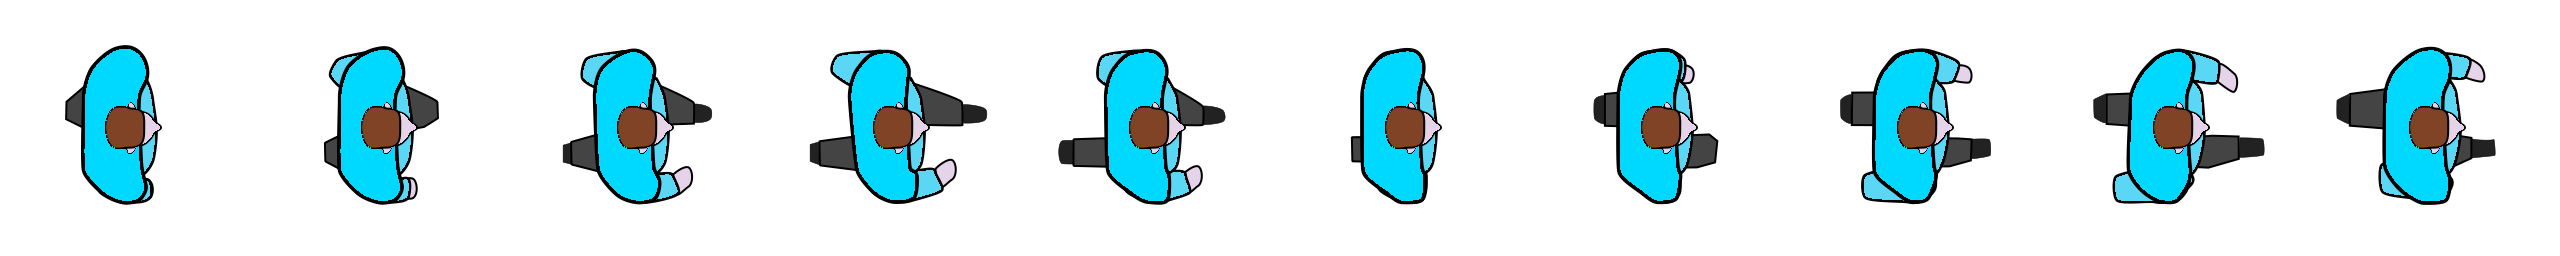
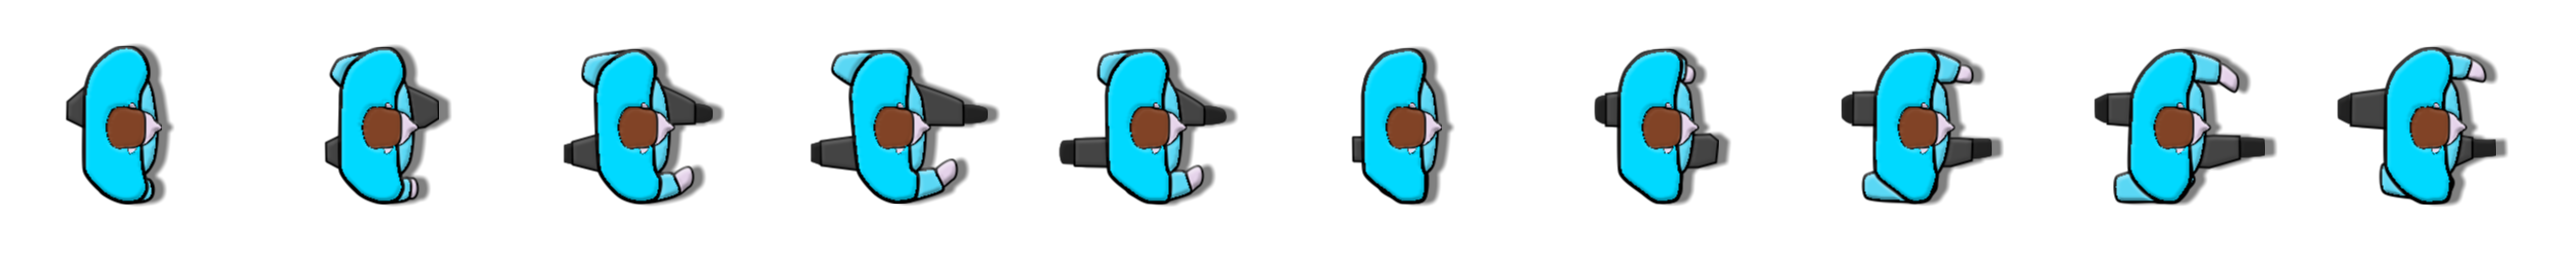
feat: fake details via bevel layer

diff --git a/docs/TODO.md b/docs/TODO.md
@@ -15,12 +15,13 @@
     - need `Canvas > Properties > Image Area` i.e. view-box
       > original magnitude was `3.245189`
   - ✅ output npc/first-anim.json
-  - 🚧 `npc-json` -> `render-npc` and renders PNGs using `synfig` CLI
+  - ✅ `npc-json` -> `render-npc` and renders PNGs using `synfig` CLI
   - 🚧 add `first-anim` to service/npc-json (incremental)
     - `synfig first-anim.sifz -t png-spritesheet -w 256 -h 256 -q 1 -a 3 --begin-time 0f --end-time 2f -o first-anim--walk.png`
   - replace old anim approach
 
 - initial flicker in World due to .lit.png loaded before darkened png?
+- watch synfig files and re-render?
 
 - 🚧 chrome (clip-path) flicker on fast zoom?
   - ✅ @desktop removing CssPanZoom grid fixed it?
@@ -37,18 +38,23 @@
     - ✅ make first two frames
     - ✅ review and refine 1st 3 frames
     - 4th ✅ 5th ✅ 6th ✅
-    - refine ✅
+    - ✅ refine
     - 7th ✅ 8th ✅ 9th ✅ 10th ✅
-    - refine
-    - render frames using CLI
+    - ✅ render frames using CLI
       - ❌ try adding {...}/Resources/bin to PATH
       - ✅ try `brew install synfig`
         - `synfig --help` worked
       - ✅ try rendering via CLI
         - https://wiki.synfig.org/Doc:Synfig_CLI_Syntax
         - `synfig first-anim.sifz -t png-spritesheet -o my-test.png`
-      - render a frame range (first 3 frames)
+      - ✅ render a frame range (first 3 frames)
         - `synfig first-anim.sifz -t png-spritesheet -w 256 -h 256 -q 1 -a 3 --begin-time 0f --end-time 2f -o my-test.png`
+    - refine
+      - ✅ bevel layer
+      - ears ✅ face
+      - thumbs
+      - foot shine
+    - ✅ drop shadow
     - add a sitting frame
 
 - ✅ Abandon _moving seg_ vs _static seg_ collision prediction
